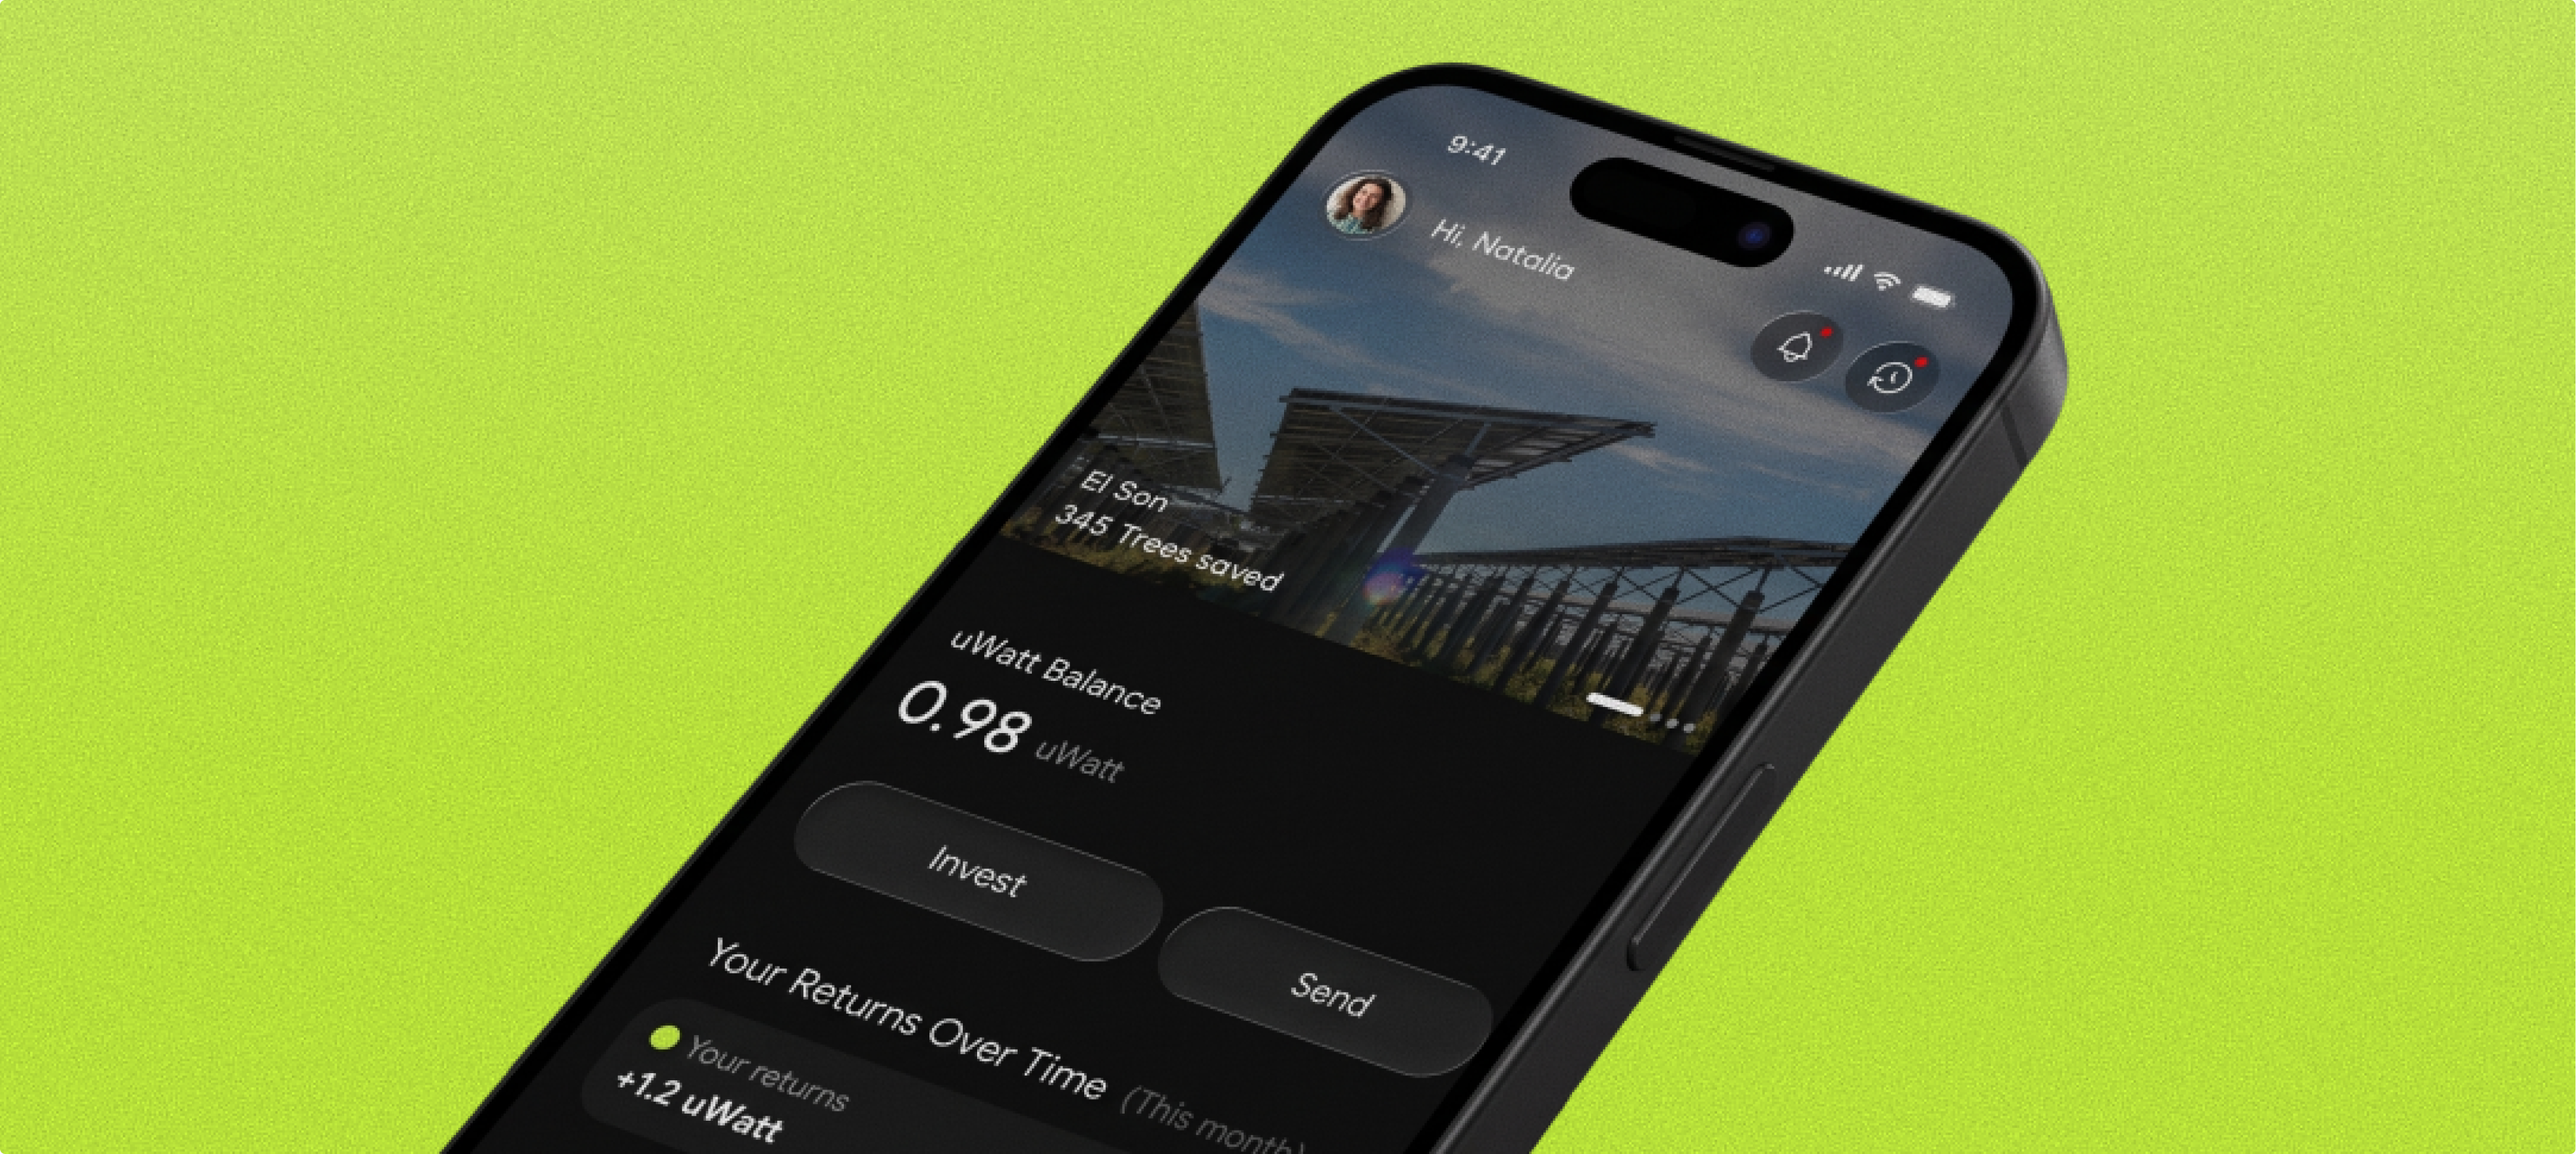
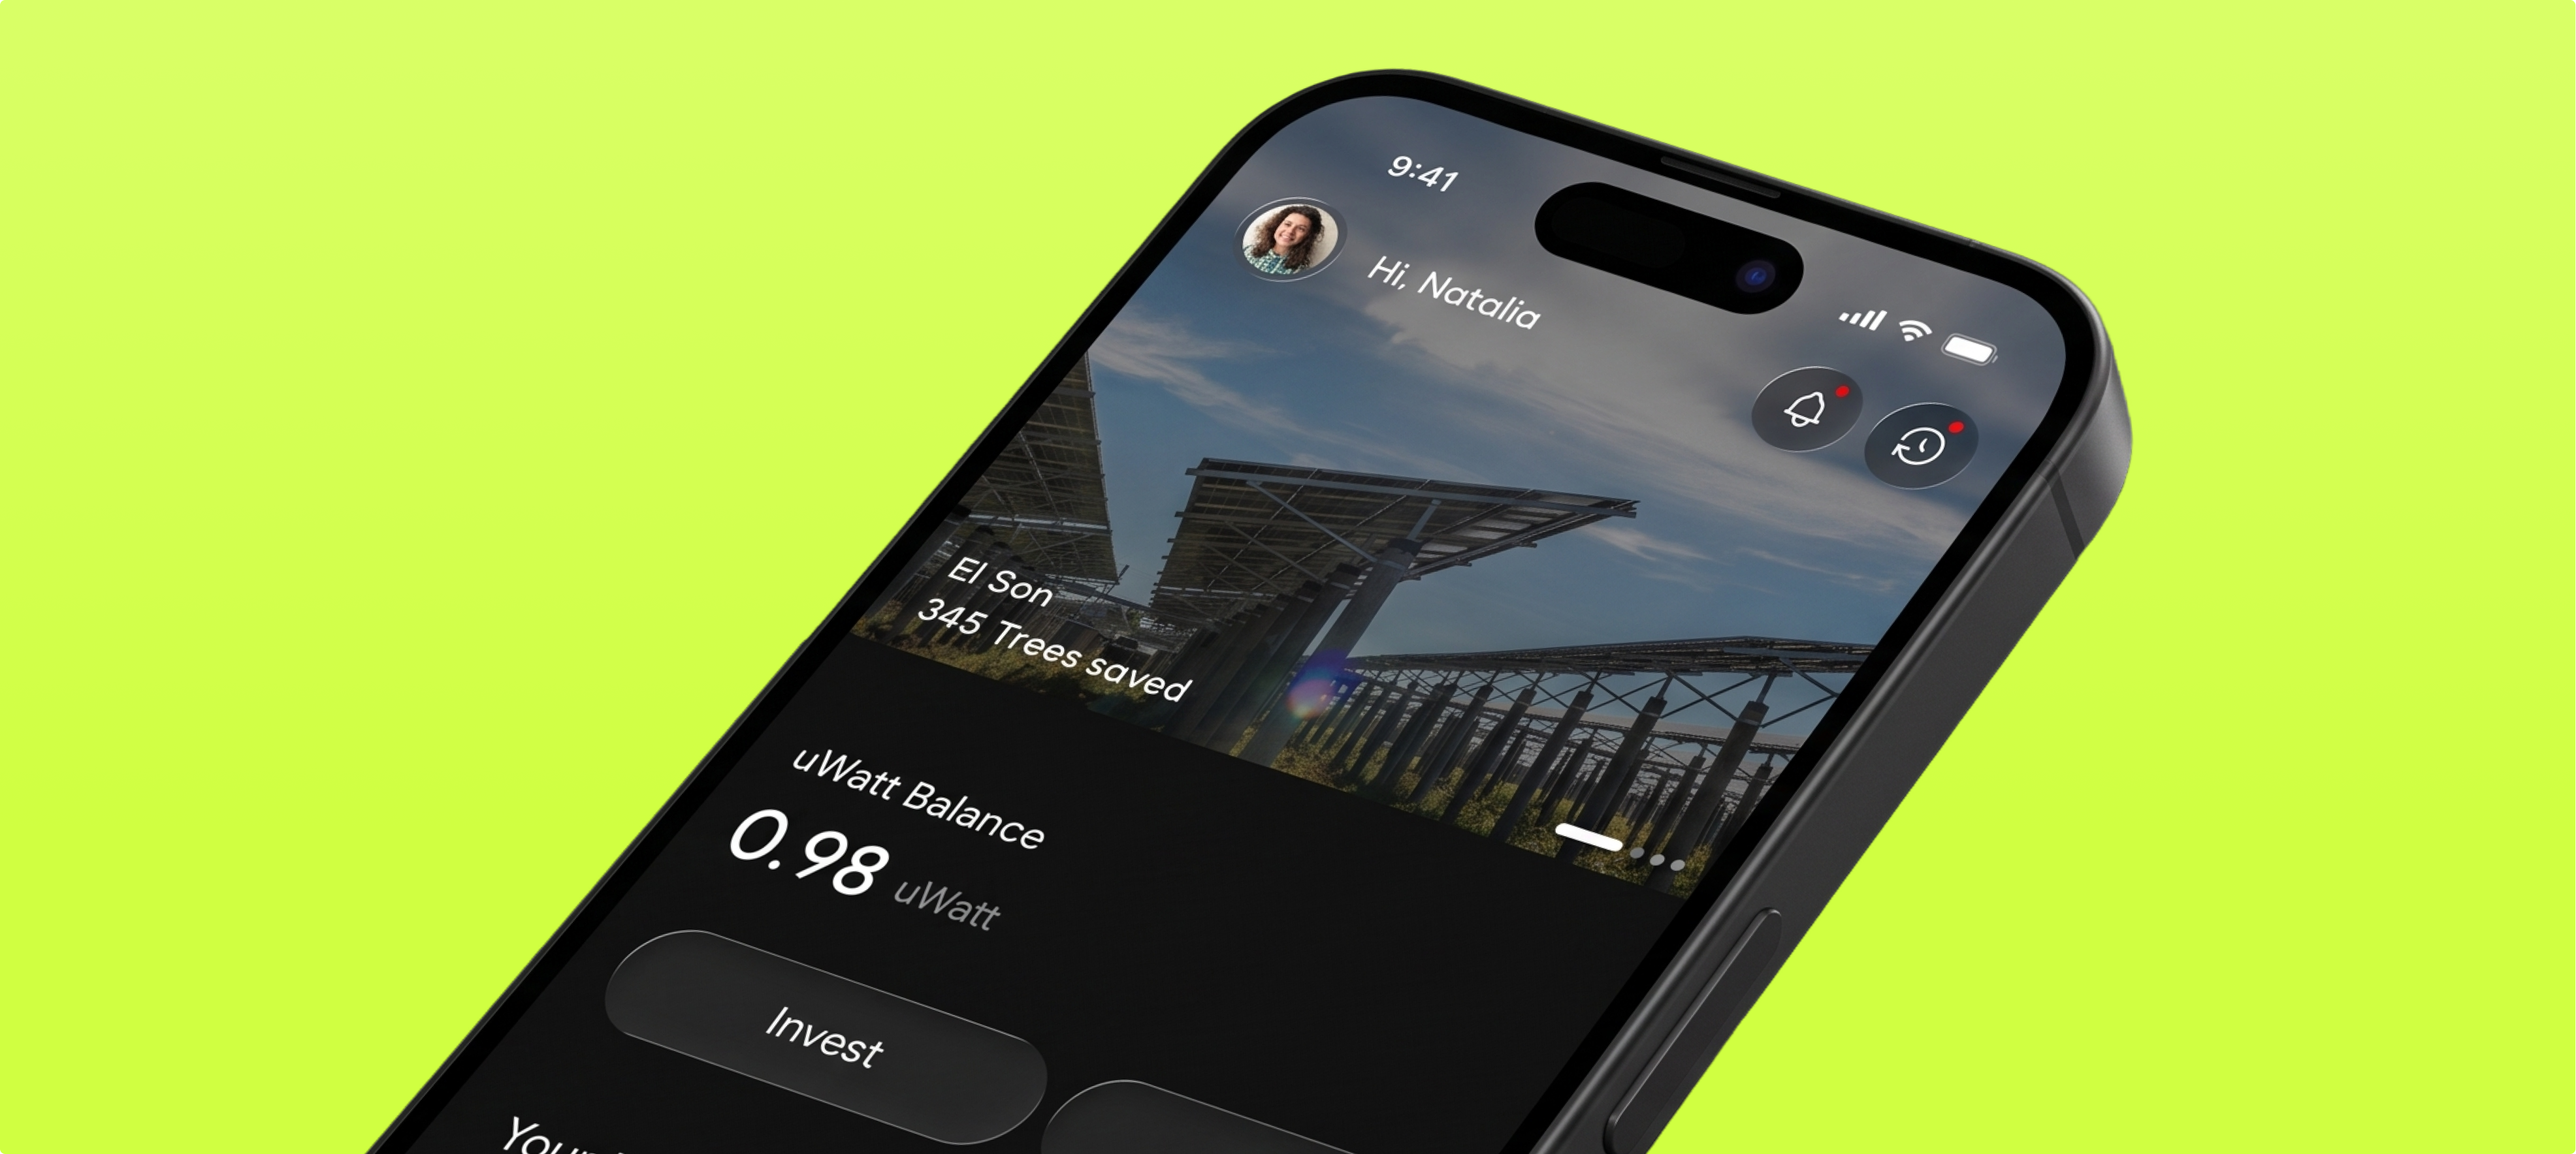
updated images in suno

diff --git a/app/components/ProjectsCarousel.tsx b/app/components/ProjectsCarousel.tsx
@@ -153,11 +153,19 @@ export default function ProjectsCarousel() {
           >
             {project.cover ? (
               <div className="relative w-full min-h-0 flex-1">
+                {project.mobileCover && (
+                  <Image
+                    src={project.mobileCover}
+                    alt=""
+                    fill
+                    className="object-cover md:hidden"
+                  />
+                )}
                 <Image
                   src={project.cover}
                   alt=""
                   fill
-                  className="object-cover"
+                  className={`object-cover ${project.mobileCover ? "hidden md:block" : ""}`}
                 />
               </div>
             ) : (

diff --git a/app/data/projects.ts b/app/data/projects.ts
@@ -4,6 +4,7 @@ export type Project = {
   tags: string[];
   href: string;
   cover?: string;
+  mobileCover?: string;
 };
 
 export const projects: Project[] = [
@@ -13,6 +14,7 @@ export const projects: Project[] = [
     tags: ["Product Design"],
     href: "/works/suno",
     cover: "/images/work/suno/cover-suno.png",
+    mobileCover: "/images/work/suno/mobile-cover-suno.png",
   },
   { title: "Connect IoT", year: "2024", tags: ["Product Design"], href: "/works/connect-iot" },
   { title: "Be!", year: "2025", tags: ["Product Design"], href: "/works/be" },
